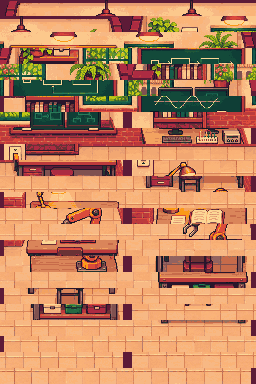
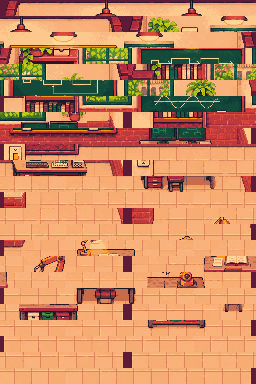
fix: scale study furniture to the walker

diff --git a/tools/check-combined-browser.js b/tools/check-combined-browser.js
@@ -1,0 +1,72 @@
+// Run after check-walker-browser.js through chrome-devtools-axi on the combined preview.
+console.log(JSON.stringify(await page.eval(async () => {
+  const w = document.querySelector('iframe').contentWindow, d = w.document;
+  const assert = (value, message) => { if (!value) throw new Error(message); };
+  const wait = () => new Promise(resolve => setTimeout(resolve, 30));
+  const close = async () => { if (d.querySelector('dialog').open) d.querySelector('dialog').close(); await wait(); };
+  const navigation = w.eval('navigation');
+  const assets = w.eval('previewAssets');
+  const map = await (await w.fetch(assets['plaza-art/interior.tmj'])).json();
+  const rules = navigation(map), directions = ['up', 'down', 'left', 'right'];
+  const queue = [{ x: 192, y: 222, route: [] }], seen = new Set(['192,222']), routes = {};
+  for (const position of queue) for (const direction of directions) {
+    const next = rules.move(position, direction, 4), route = [...position.route, direction];
+    if (rules.exit(next)) continue;
+    const target = rules.nearby(next);
+    if (target) routes[`${target.name}/${direction}`] ??= route;
+    const key = `${next.x},${next.y}`;
+    if (!seen.has(key)) { seen.add(key); queue.push({ ...next, route }); }
+  }
+  const expected = { paper: directions, notebook: ['up','down','left'], sensor: ['up','down','right'], robot: directions,
+    computer: ['up','left','right'], board: ['up'], light: ['left'] };
+  const travel = area => d.querySelector(`[data-travel="${area}"]`).click();
+  const walk = route => { for (const direction of route) d.querySelector(`[data-direction="${direction}"]`).click(); };
+  const approach = async (id, direction) => { await close(); travel('study'); walk(routes[`${id}/${direction}`]); await wait(); };
+  const open = () => d.querySelector('#interact').click();
+  const challenge = () => { for (let i = 0; i < 6 && d.querySelector('#challenge').hidden; i++) d.querySelector('#speech-next').click(); };
+  const checks = [];
+  for (const [id, facings] of Object.entries(expected)) for (const direction of facings) {
+    assert(routes[`${id}/${direction}`], `route exists for ${id}/${direction}`);
+    await approach(id, direction);
+    assert(!d.querySelector('#interact').disabled, `${id}/${direction} enables interaction`);
+    assert(d.querySelector('#interact').textContent === d.querySelector(`[data-action="${id}"]`).textContent, `${id}/${direction} names the correct object`);
+    open();
+    assert(d.querySelector('dialog').open && d.querySelector('dialog').classList.contains('balloon'), `${id}/${direction} opens a balloon`);
+    checks.push(`${id}/${direction}`);
+  }
+  for (const id of ['board','robot']) {
+    await approach(id, 'up'); open(); challenge();
+    assert(!d.querySelector('#challenge').hidden, `${id} starts`);
+    d.querySelector(id === 'board' ? '#board-choices button:first-child' : '[data-choice="carry"]').click();
+    assert(d.querySelector('#challenge-progress').textContent.includes('1'), `${id} mistake retains progress`);
+    if (id === 'board') for (let i = 0; i < 3; i++) d.querySelector('#board-choices button:nth-child(2)').click();
+    else for (const action of ['approach','grip','carry','release']) d.querySelector(`[data-choice="${action}"]`).click();
+    assert(!d.querySelector('#challenge-again').hidden, `${id} finishes`);
+    d.querySelector('#challenge-again').click();
+    assert(d.querySelector('#challenge-again').hidden, `${id} replays`);
+  }
+  assert(d.querySelector('#inventory-count').textContent === '2', 'both pickups persist across travel');
+  await close(); travel('study'); walk([...Array(13).fill('left'),...Array(10).fill('up'),'left']);
+  assert(d.querySelector('#interact').textContent === d.querySelector('[data-action="notebook"]').textContent, 'reproduced notebook approach now works');
+  assert(d.documentElement.scrollWidth === w.innerWidth, 'no horizontal page overflow');
+  window.integrationShot = async name => {
+    await close(); w.dispatchEvent(new w.Event('blur'));
+    if (d.querySelector('[data-action="light"]').getAttribute('aria-pressed') === 'false') {
+      d.querySelector('[data-action="light"]').click(); await close();
+    }
+    if (name === 'walk' || name === 'run') {
+      travel('plaza');
+      const canvas = d.querySelector('canvas'); canvas.focus();
+      canvas.dispatchEvent(new w.KeyboardEvent('keydown', {key:'ArrowLeft',code:'ArrowLeft',shiftKey:name === 'run',bubbles:true}));
+    }
+    if (name === 'study') { travel('study'); walk([...Array(13).fill('left'),...Array(10).fill('up'),'left']); }
+    if (name === 'balloon') { await approach('notebook','left'); open(); d.querySelector('#speech-next').click(); }
+    if (name === 'board' || name === 'robot') { await approach(name,'up'); open(); challenge(); }
+    if (name === 'edge') { travel('study'); walk(Array(12).fill('down')); }
+    await wait(); await wait();
+    const dialog = d.querySelector('dialog'), r = dialog.getBoundingClientRect();
+    assert(!dialog.open || (r.left >= 0 && r.right <= w.innerWidth && r.top >= 0 && r.bottom <= w.innerHeight), `${name} dialog fits viewport`);
+    return { name, location: d.querySelector('#location').textContent, width: w.innerWidth, height: w.innerHeight };
+  };
+  return { passed: true, viewport: [w.innerWidth,w.innerHeight], studyApproaches: checks, miniGames: 'mistake, completion, replay', pickups: 2 };
+}), null, 2));

diff --git a/check-plaza.js b/check-plaza.js
@@ -20,8 +20,8 @@ const expectedExits = { plaza: ["outside"], outside: ["plaza"], study: ["outside
 const expectedFacings = {
   plaza: { university: ["up"], lamp: ["up", "down", "left", "right"], pond: ["up", "right"] },
   outside: { study: ["up"], university: ["up"] },
-  study: { paper: ["up", "down"], notebook: ["up", "down", "left"], sensor: ["up", "down", "right"],
-    robot: ["up", "right"], computer: ["up", "down", "right"], board: ["up"], light: ["left"] },
+  study: { paper: ["up", "down", "left", "right"], notebook: ["up", "down", "left"], sensor: ["up", "down", "right"],
+    robot: ["up", "down", "left", "right"], computer: ["up", "left", "right"], board: ["up"], light: ["left"] },
 };
 const allActions = new Set();
 let totalReachable = 0;
@@ -183,6 +183,19 @@ for (const cycle of Object.values(motion.cycles)) {
 }
 const studyItems = study.layers.find((layer) => layer.name === "items").objects;
 assert.deepEqual(studyItems.map((o) => o.name).sort(), ["notebook", "sensor"]);
+const studyRules = navigation(study);
+assert.equal(studyRules.nearby({ x: 140, y: 182, facing: "left" })?.name, "notebook", "the smaller table exposes its notebook from the right");
+assert.equal(studyRules.nearby({ x: 55, y: 180, facing: "left" }), undefined, "the old table footprint is now empty floor");
+assert.equal(studyRules.nearby({ x: 140, y: 182, facing: "right" }), undefined, "facing away from the smaller table cannot activate it");
+for (const [x, y] of [[42, 180], [65, 205], [355, 200], [350, 120]]) {
+  assert(studyRules.walkable(x, y), `smaller furniture releases floor at ${x},${y}`);
+}
+for (const [x, y] of [[130, 175], [104, 214], [303, 126], [325, 205], [307, 167]]) {
+  assert(!studyRules.walkable(x, y), `furniture still blocks feet at ${x},${y}`);
+}
+for (const item of studyItems) {
+  assert(item.width <= 12 && item.height <= 12, `${item.name} fits the smaller furniture`);
+}
 
 const degree = {
   en: "Bachelor of Engineering in Control and Automation Engineering.",

diff --git a/tools/export-university.py b/tools/export-university.py
@@ -1,4 +1,4 @@
-"""Export the approved university compositions as 16-pixel Tiled maps."""
+"""Export the original university compositions as 16-pixel Tiled maps."""
 from pathlib import Path
 import json
 from PIL import Image, ImageChops
@@ -13,10 +13,16 @@ def rectangle(name, box, **properties):
 
 for name in ['outside', 'interior']:
     scene = Image.open(ROOT / f'tools/university-art/{name}.png').convert('RGBA')
+    if name == 'interior':
+        palette = Image.open(ROOT / 'tools/university-art/outside.png').convert('RGB').quantize(colors=64)
+        scene = Image.open(ROOT / 'tools/university-art/interior-scale-source.png').convert('RGB')
+        scene = scene.resize((384, 256), Image.Resampling.NEAREST)
+        scene = scene.quantize(palette=palette, dither=Image.Dither.NONE).convert('RGBA')
     assert scene.size == (384, 256)
+    composition = scene.copy()
     pieces = []
     if name == 'interior':
-        for item, box, clean in [('notebook', (99, 149, 114, 167), (98, 139, 113, 149)), ('sensor', (296, 163, 315, 178), (317, 164, 330, 178))]:
+        for item, box, clean in [('notebook', (122, 177, 132, 187), (119, 170, 129, 177)), ('sensor', (282, 184, 293, 192), (295, 184, 306, 192))]:
             piece = scene.crop(box)
             piece.save(OUT / f'{item}.png')
             scene.paste(scene.crop(clean).resize(piece.size, Image.Resampling.NEAREST), box[:2])
@@ -59,14 +65,18 @@ for name in ['outside', 'interior']:
     else:
         obstacles = [rectangle(n, b) for n, b in [
             ('left-wall', (0, 100, 25, 156)), ('right-wall', (375, 100, 9, 156)),
-            ('shelves', (25, 100, 54, 8)), ('reading-table', (27, 136, 92, 75)),
-            ('computer-table', (270, 100, 105, 26)), ('robot-bench', (287, 160, 88, 52)),
-            ('robot-arm', (308, 124, 60, 36))]]
-        interactions = [rectangle('paper', (27, 136, 70, 75)),
-                        rectangle('notebook', (97, 136, 22, 75)),
-                        rectangle('sensor', (287, 160, 21, 52)),
-                        rectangle('robot', (308, 124, 67, 88)),
-                        rectangle('computer', (270, 100, 38, 26)),
+            ('shelves', (25, 100, 54, 8)), ('reading-table', (76, 169, 59, 39)),
+            ('reading-chair', (95, 188, 20, 28)),
+            ('computer-table', (268, 93, 76, 32)), ('computer-stool', (296, 111, 16, 17)),
+            ('robot-bench', (275, 181, 59, 35)), ('robot-arm', (290, 156, 32, 25))]]
+        interactions = [rectangle('paper', (76, 169, 41, 39)),
+                        rectangle('paper', (95, 208, 20, 8)),
+                        rectangle('notebook', (117, 169, 18, 39)),
+                        rectangle('sensor', (275, 181, 15, 35)),
+                        rectangle('robot', (290, 156, 32, 25)),
+                        rectangle('robot', (290, 181, 44, 35)),
+                        rectangle('computer', (268, 93, 76, 32)),
+                        rectangle('computer', (296, 125, 16, 3)),
                         rectangle('board', (145, 84, 95, 12)),
                         rectangle('light', (19, 108, 6, 27))]
         spawns = [rectangle('entry', (192, 222, 0, 0), facing='up')]
@@ -92,6 +102,5 @@ for name in ['outside', 'interior']:
         proof.paste(tiles[gid - 1], (i % 24 * 16, i // 24 * 16))
     for piece in pieces:
         proof.alpha_composite(Image.open(OUT / f'{piece["name"]}.png'), (piece['x'], piece['y']))
-    approved = Image.open(ROOT / f'tools/university-art/{name}.png').convert('RGBA')
-    assert ImageChops.difference(proof, approved).getbbox(alpha_only=False) is None
-    print(f'{name}: {len(tiles)} unique 16px tiles, 384 placements, reconstruction matches approved pixels')
+    assert ImageChops.difference(proof, composition).getbbox(alpha_only=False) is None
+    print(f'{name}: {len(tiles)} unique 16px tiles, 384 placements, reconstruction matches source pixels')

diff --git a/tools/university-art/README.md b/tools/university-art/README.md
@@ -32,3 +32,51 @@ It preserves the generated alpha values within each retained crop.
 The exporter gives each sprite its final display dimensions, so the scene never stretches individual sprite pixels.
 The scene places the doorway light at the bottom threshold and draws it over the room shade so sunlight remains visible with the lights off.
 The same generated halo supplies the lamp's bulb glow and its flattened pool of light.
+
+## Interior furniture scale proposal
+
+`interior-scale-source.png` is the original ImageGen edit generated on 26 November 2026 for the furniture scale review.
+`interior-scale-prompt.txt` preserves both prompts and the reference roles.
+The original approved `interior.png` remains available for comparison.
+This proposal is not yet approved.
+No photograph, franchise art or new character was supplied.
+
+`../export-university.py` reduces the new source to 384 by 256 pixels using nearest-neighbor sampling, then maps it to the existing outside scene's 64-color palette without dithering.
+[Pillow documents the resize filter and palette-based quantization](https://pillow.readthedocs.io/en/stable/reference/Image.html).
+The exporter separates the notebook and sensor, rebuilds the 16-pixel terrain tiles, and asserts that reconstruction matches the reduced composition exactly.
+[Tiled documents the pixel dimensions and object alignment used by the map](https://doc.mapeditor.org/en/stable/reference/json-map-format/).
+
+The locked walker has a 40-pixel visible height inside its 32 by 48 frame.
+Furniture uses a 14-pixel chair seat height, close to the walker's hips, and a 28-pixel chair back height.
+The reading desk's front edge is about 16 pixels above its feet.
+Projected bounds below include tabletop depth, so they are not physical furniture heights.
+
+| Prop | Original bounds, pixels | Proposed bounds, pixels |
+| --- | --- | --- |
+| Reading chair | 28 x 44 | 20 x 28 |
+| Reading desk | 92 x 62 | 59 x 40 |
+| Desk lamp | 34 x 35 | 22 x 25 |
+| Loose paper | 20 x 20 | 11 x 10 |
+| Open book | 38 x 24 | 23 x 13 |
+| Notebook pickup | 15 x 18 | 10 x 10 |
+| Robot bench, including storage | 88 x 53 | 59 x 35 |
+| Robot arm and base | 61 x 54 | 32 x 39 |
+| Sensor pickup | 19 x 15 | 11 x 8 |
+| Computer desk | 105 x 47 | 76 x 33 |
+| Both monitors | 78 x 34 | 56 x 23 |
+| Computer stool | 26 x 28 | 16 x 19 |
+| Keyboard | 29 x 9 | 24 x 8 |
+| Computer electronics pair | 47 x 18 | 35 x 14 |
+| Right potted plant | 42 x 47 | 33 x 33 |
+
+The tall bookcase, books, box and left plant remain architectural decoration, approximately 54 by 92 pixels together.
+The chalkboard remains approximately 108 by 60 pixels, the windows 50 by 52, the pendant lights 28 by 26, and the switch 12 by 21.
+These fixtures keep their original scale and position within a few generated pixels.
+The room remains 384 by 256 pixels.
+
+Collision rectangles follow the final furniture positions and include separate chair and stool footprints.
+The seven interactions follow the new furniture surfaces and accept every reachable facing direction.
+The paper station, robot and computer each use two target rectangles to cover their separate exposed surfaces.
+The entry point and exit remain unchanged.
+The notebook and sensor artwork moves with the smaller desks, so both pickup images have new coordinates.
+The runtime, walker, controls, language content and doorway light are unchanged.

diff --git a/README.md b/README.md
@@ -18,6 +18,8 @@ Without JavaScript, the directory and regular portfolio links remain available.
 If loading fails, the entry button offers another attempt.
 
 Use arrows or WASD to walk, or hold a direction button on a touch screen.
+Hold Shift to run, or toggle Run before holding a direction.
+Walking stays at 60 pixels per second, and running uses a separate animation at 102 pixels per second.
 Walk off the plaza's right path to reach the university courtyard from its left edge.
 Walk back across the courtyard's left edge to return to the plaza.
 Edge crossings happen automatically, without an interaction key.
